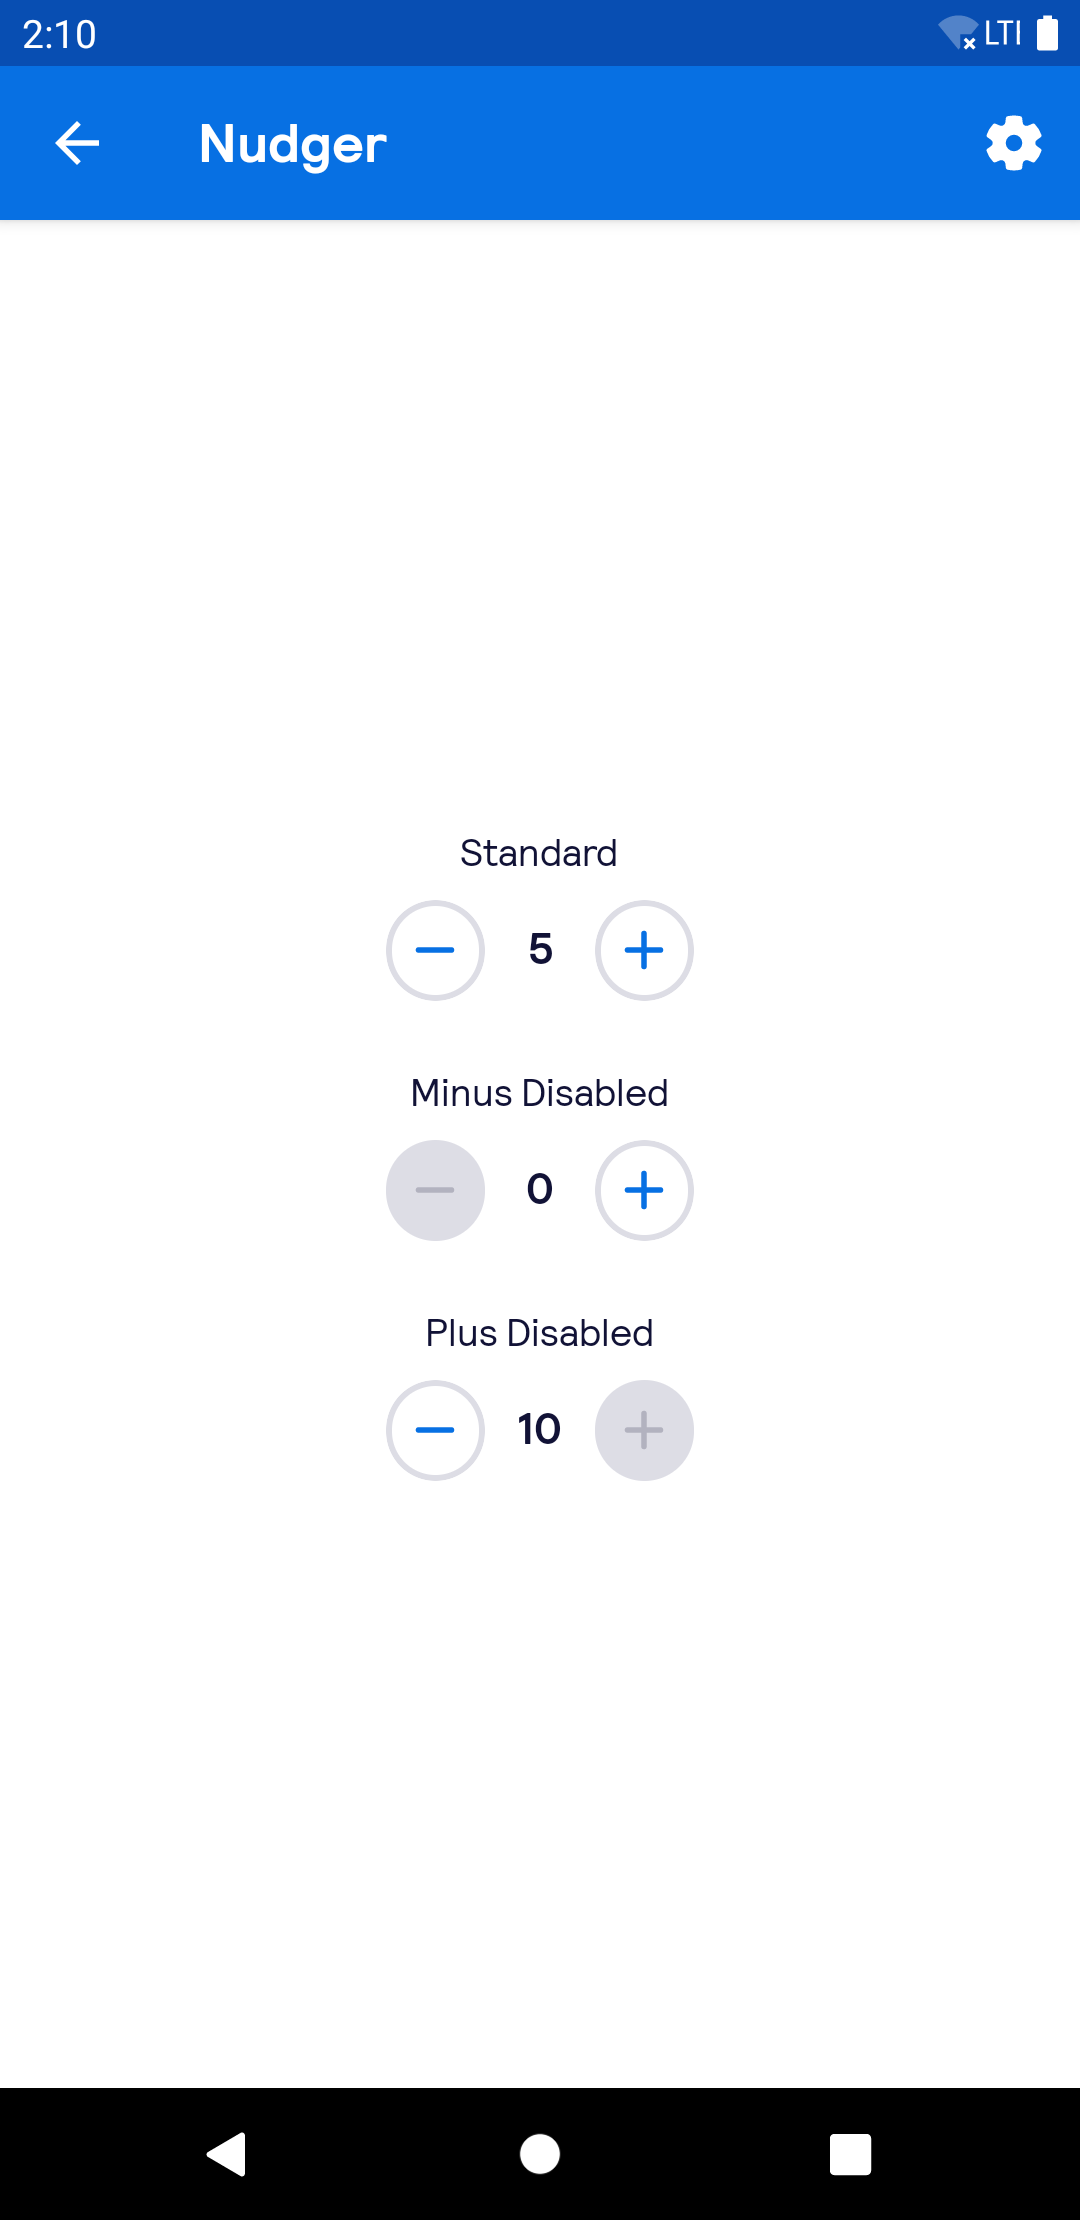
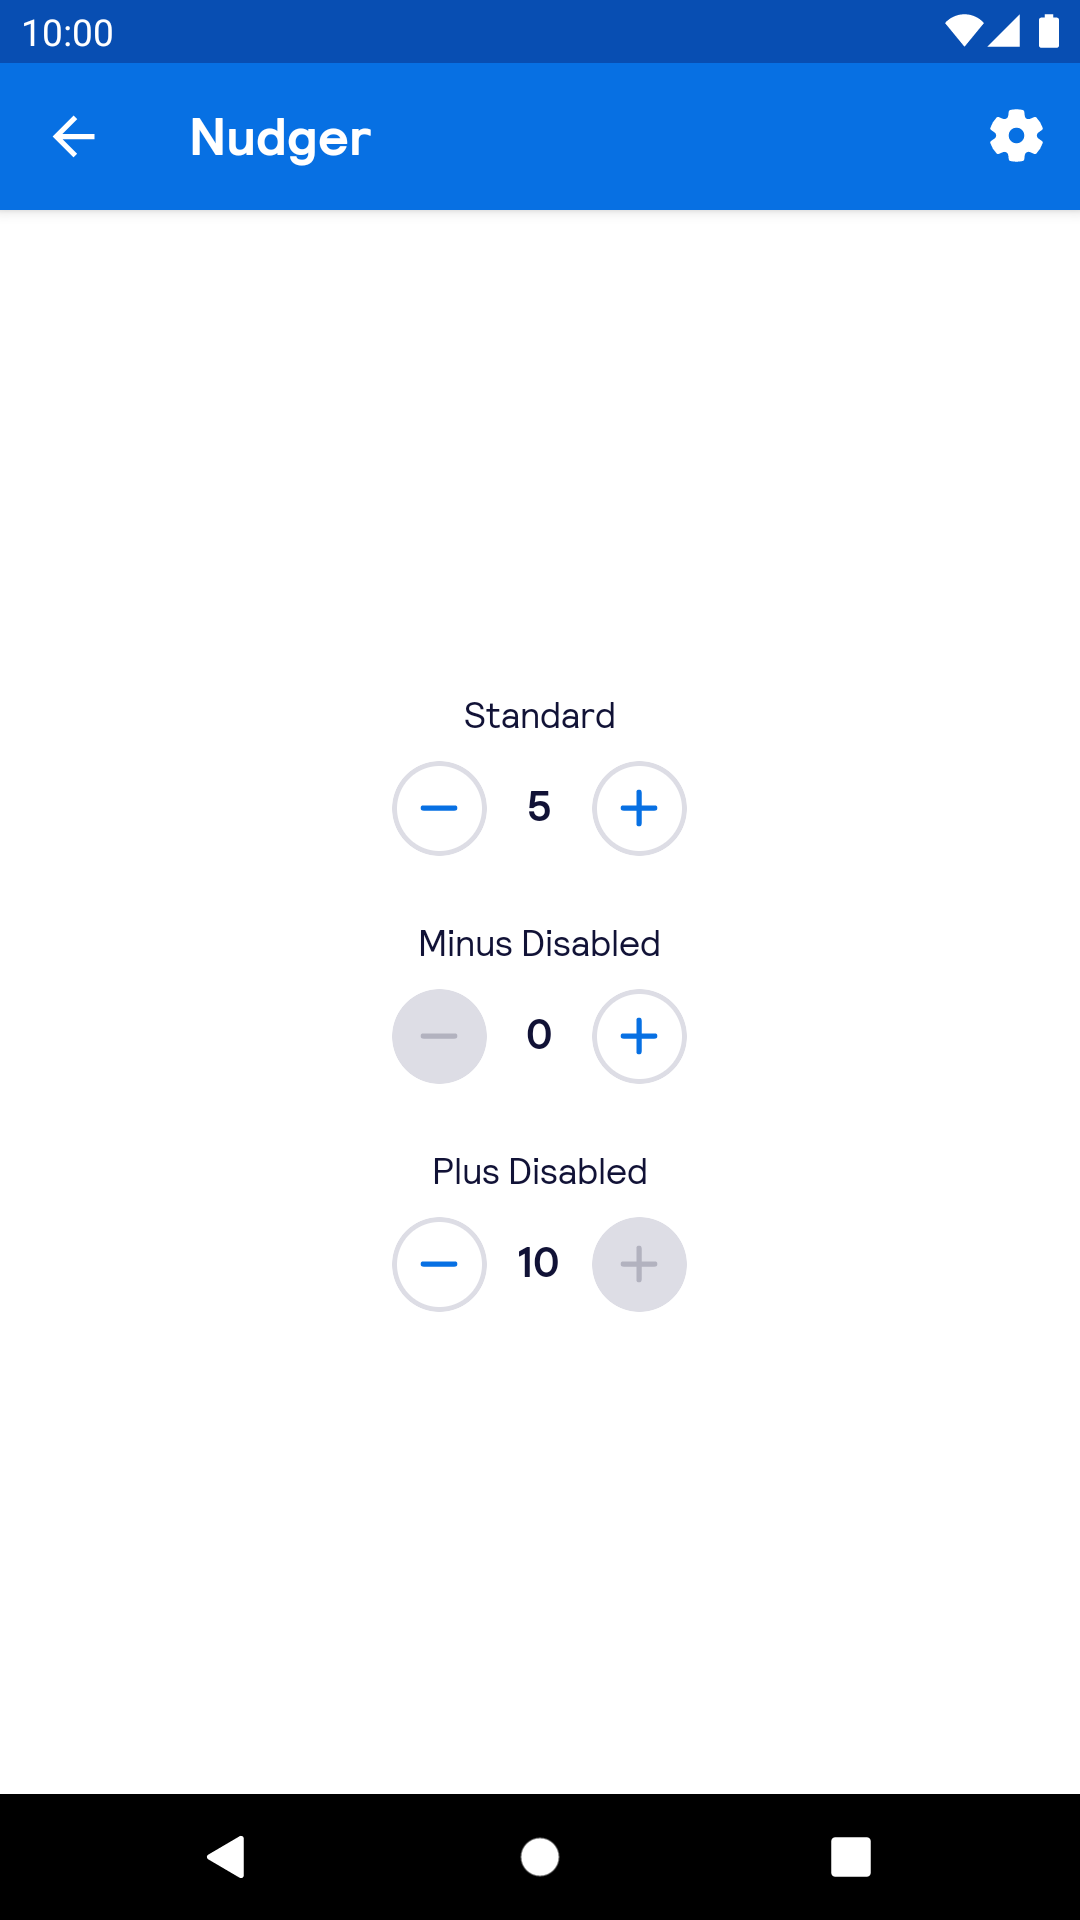
KOA-4477 Add screenshots

diff --git a/app/src/androidTest/java/net/skyscanner/backpack/docs/DocsRegistry.kt b/app/src/androidTest/java/net/skyscanner/backpack/docs/DocsRegistry.kt
@@ -68,6 +68,7 @@ object DocsRegistry {
     Screenshot("Nav Bar - Default", "expanded"),
     Screenshot("Nav Bar - Default", "collapsed", ::setupNavBarCollapsed),
     Screenshot("Nav Bar - With Menu", "navigation", ::setupNavBarCollapsed),
+    Screenshot("Nudger", "all"),
     Screenshot("Overlay", "all"),
     Screenshot("Panel", "all"),
     Screenshot("RadioButton", "default"),
@@ -75,6 +76,7 @@ object DocsRegistry {
     Screenshot("Rating - Horizontal", "sizes"),
     Screenshot("Rating - Vertical", "vertical"),
     Screenshot("Rating - Pill", "pill"),
+    Screenshot("Slider", "all"),
     Screenshot("Snackbar", "default", ::setupSnackbar),
     Screenshot("Snackbar", "icon", ::setupSnackbarIconAction),
     Screenshot("Star Rating - Default", "default"),
